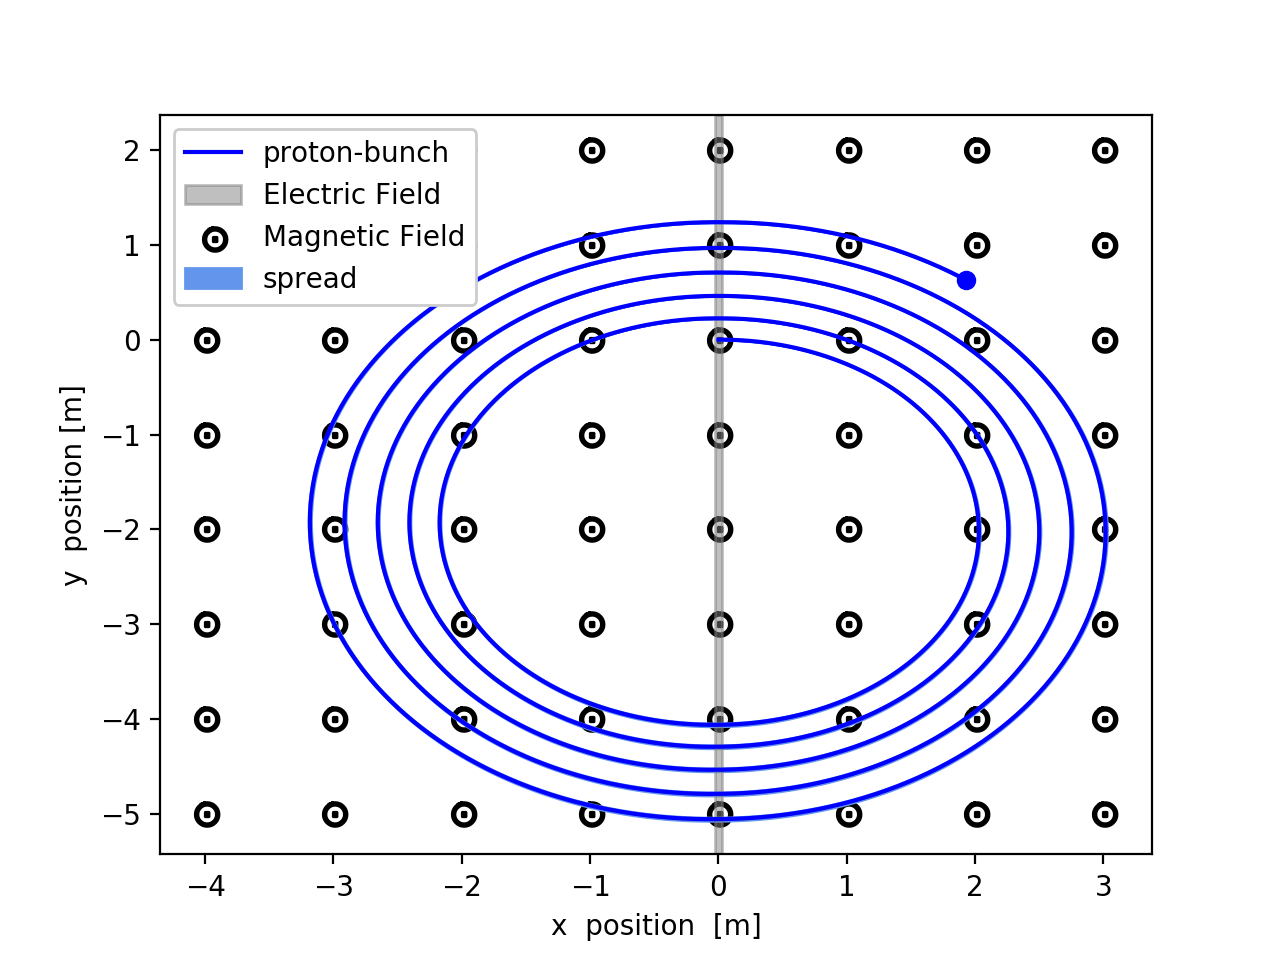
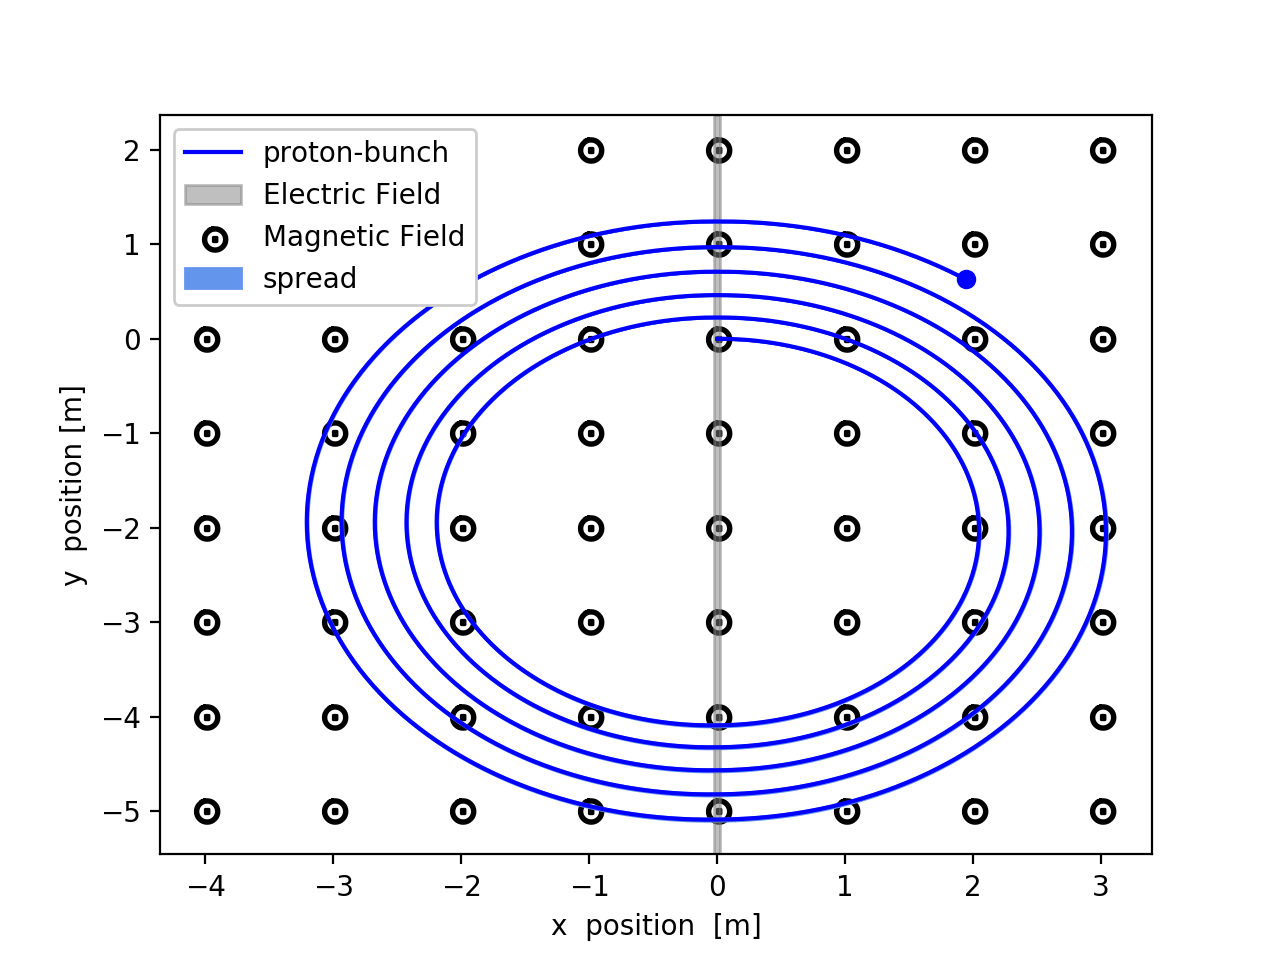
Added __add__ to Bunch.py
You can now add two Bunch objects together to create a single Bunch object made up of any number of original bunches

diff --git a/Project/main.py b/Project/main.py
@@ -7,7 +7,9 @@ from EMField import EMField
 from ProtonBunch import ProtonBunch
 
 field = EMField([.1,0,0], [0,0,1.6*10**(-5)], [-0.026,0.026]) 
-protons = ProtonBunch(0.047)
+protons_1 = ProtonBunch(0.0047,2)
+protons_2 = ProtonBunch(0.0047,3)
+protons = protons_1 + protons_2
 
 log.logger.info('Initial average kinetic energy: %s eV' % protons.KineticEnergy())
 log.logger.info('Initial average momentum: %s kg m/s' % protons.momentum())
@@ -50,7 +52,7 @@ time_period = 2*const.pi*protons.particleMass / (protons.particleCharge*field.ma
 revolutions = np.linspace(0,round(timeSeries[-1]/time_period),len(timeSeries))
 
 final = [x[-1], y[-1]]
-magneticX, magneticY = np.meshgrid(list(range(-4,4,1)), list(range(-5,3,1)))
+magneticX, magneticY = np.meshgrid(list(range(-3,4,1)), list(range(-3,3,1)))
 
 
 log.logger.info('creating plots')
@@ -73,7 +75,7 @@ plt.plot(timeSeries, bunch_spread_y, label=r'$\sigma_{y}$')
 plt.xlabel('time [s]')
 plt.ylabel('spread [m]')
 ax2 = plt.twiny()
-ax2.set_xlabel('Revolutions')
+ax2.set_xlabel('Revolution')
 ax2.plot(revolutions,bunch_spread_x, label=r'$\sigma_{x}$')
 ax2.plot(revolutions,bunch_spread_y, label=r'$\sigma_{y}$')
 ax2.legend(loc='upper left',framealpha=1)

diff --git a/Project/Bunch.py b/Project/Bunch.py
@@ -4,6 +4,7 @@ import numpy as np
 import math
 from statistics import mean
 import scipy.constants as const
+import copy
 
 class Bunch(ABC):
     """
@@ -52,6 +53,11 @@ class Bunch(ABC):
     @abstractmethod
     def assignVelocities(self):
         pass
+
+    def __add__(self, other):
+        Bunch = copy.deepcopy(self) # make a copy of the current instance 
+        Bunch.bunch += other.bunch # add the bunches of the two parsed bunch objects together
+        return Bunch # return a bunch object made up of the two parsed bunches
 
     def assignPositions(self):
         mu = 0.

diff --git a/Project/Particle.py b/Project/Particle.py
@@ -32,6 +32,8 @@ class Particle:
         return 'Particle: {0}, Mass: {1:12.3e}, Position: {2}, Velocity: {3}, Acceleration: {4}'.format(self.name,self.mass,self.position, self.velocity,self.acceleration)
 
     def __eq__(self, other):
+        if not isinstance(self.__class__, other):
+            return False
         equality = []
         instance1_values = self.__dict__.values()
         instance2_values = other.__dict__.values()
